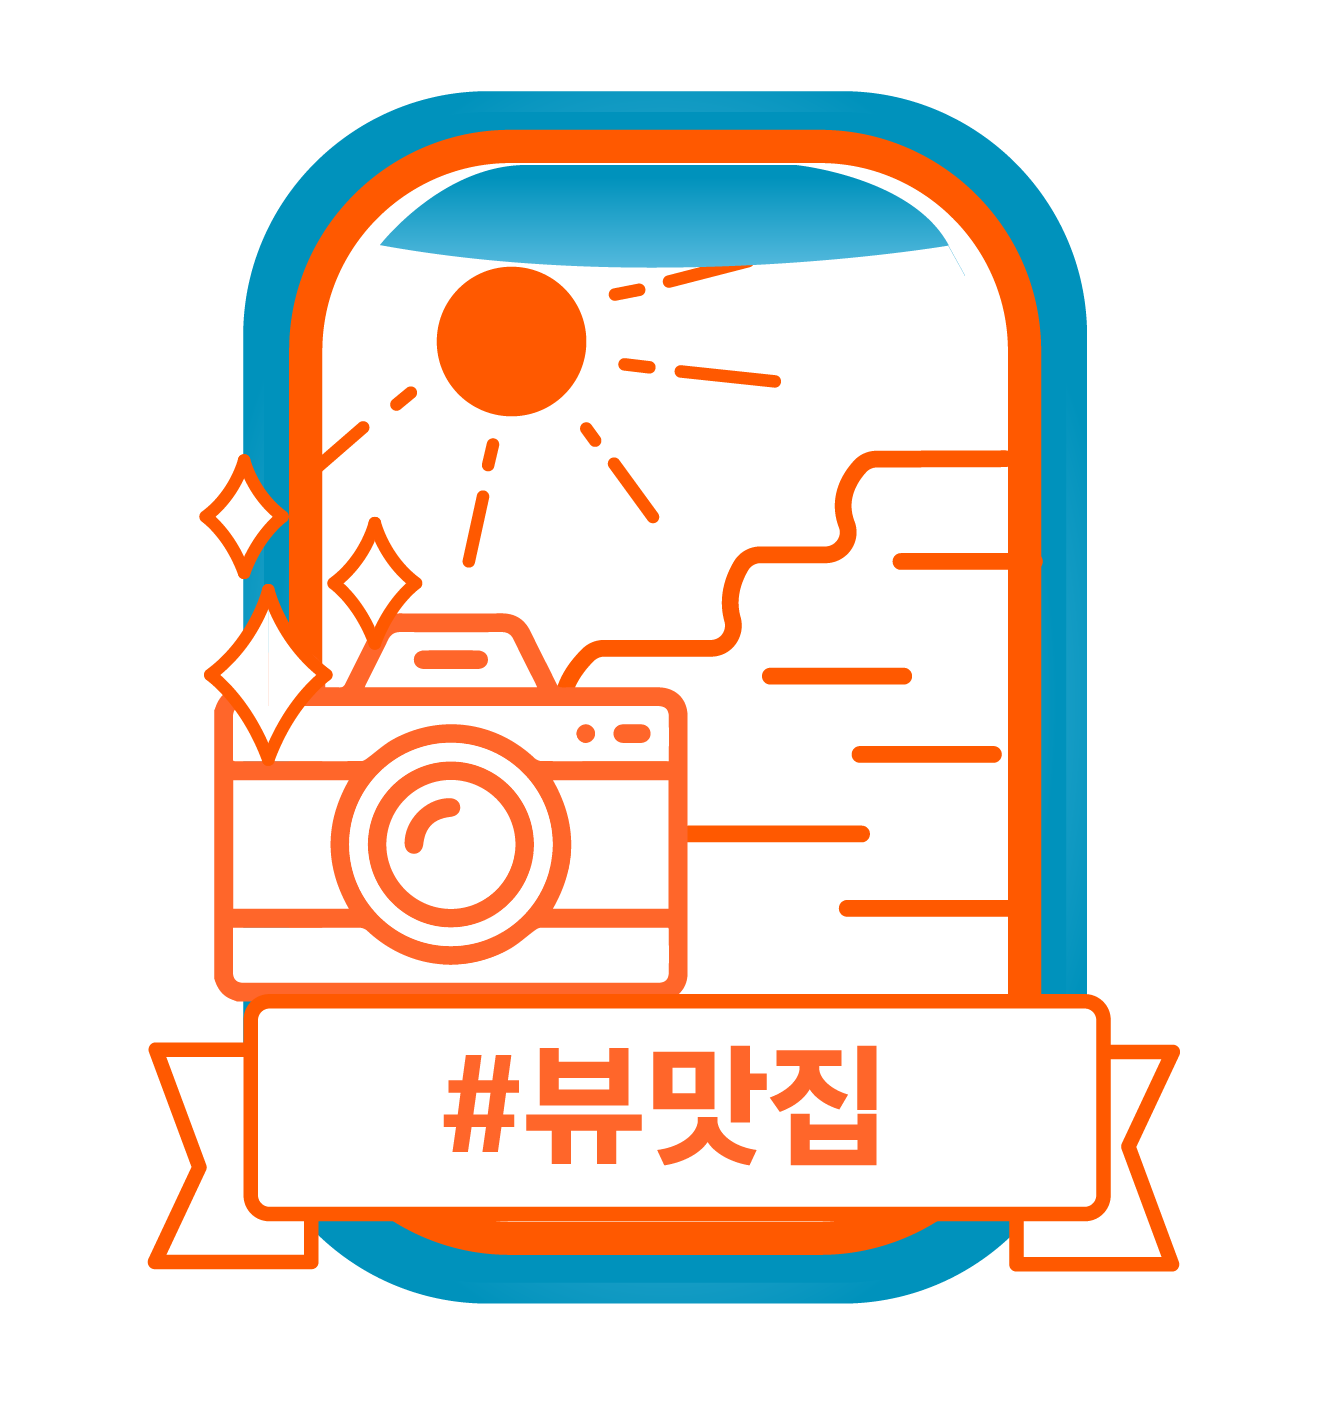
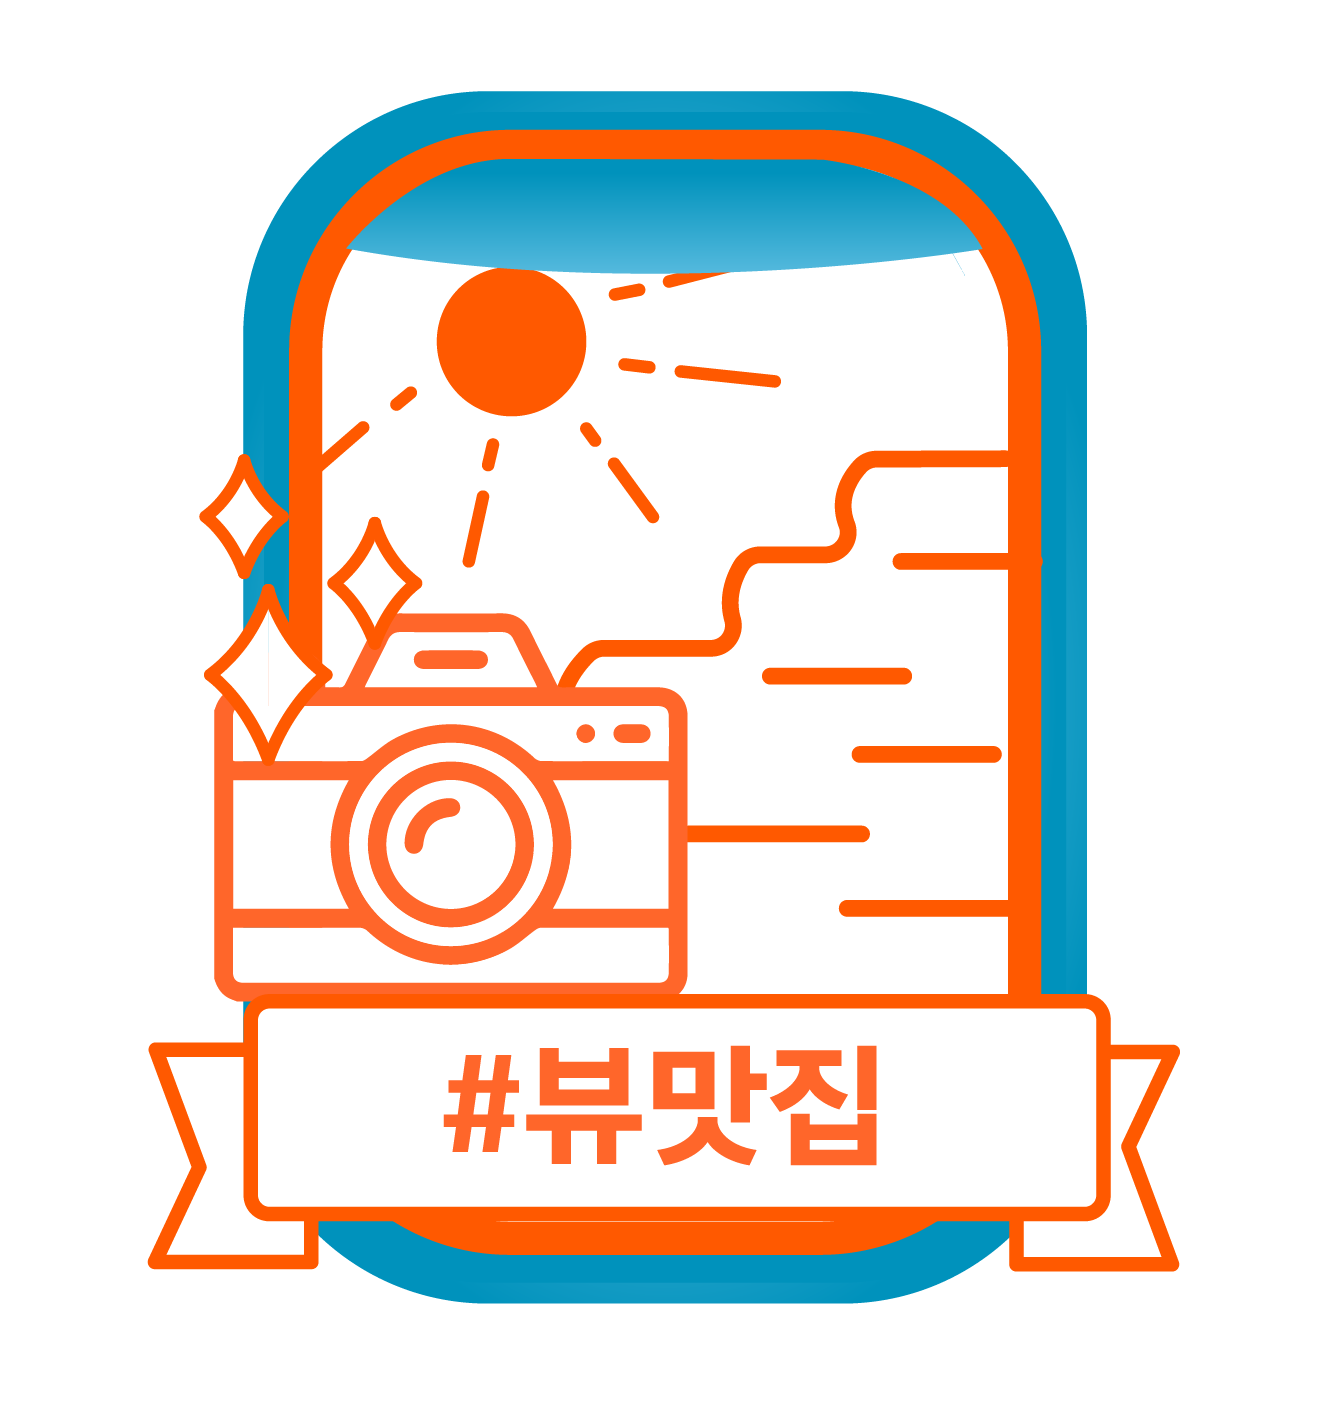
choose your cafe

diff --git a/index.html b/index.html
@@ -145,20 +145,20 @@
 								</div>
 							</div>
 						</div>	
-								<div class="row">
-									<div class="col-md-6 animate-box text-center">
-										<a href="work-single.html" class="work-img" style="background-image: url(images/jview-04.png);">
-											<div class="overlay"></div> -->
-											    <div class="desc">
-												<span class="icon"><i class="icon-heart-outline"></i></span>
-												<p class="tag"><span>인스타에 멋진 사진을 남길거야!<br>
-																	 인테리어와 뷰가 멋진 카페</span>
-												<h3>#뷰맛집</h3>
-												<span class="read-more">more <i class="icon-arrow-right3"></i></span>
-											</div>
-										</a>
+									<div class="row">
+										<div class="col-md-6 animate-box text-center">
+											<a href="work-single.html" class="work-img" style="background-image: url(images/View-04.png);">
+												<!-- <div class="overlay"></div> -> open -->
+													<div class="desc">
+													<span class="icon"><i class="icon-heart-outline"></i></span>
+													<p class="tag"><span>인스타에 멋진 사진을 남길거야!<br>
+																		인테리어와 뷰가 멋진 카페</span>
+													<h3>#뷰맛집</h3>
+													<span class="read-more">more <i class="icon-arrow-right3"></i></span>
+												</div>
+											</a>
+										</div>
 									</div>
-								</div>
 						
 				<!-- jQuery -->
 	<script src="js/jquery.min.js"></script>
